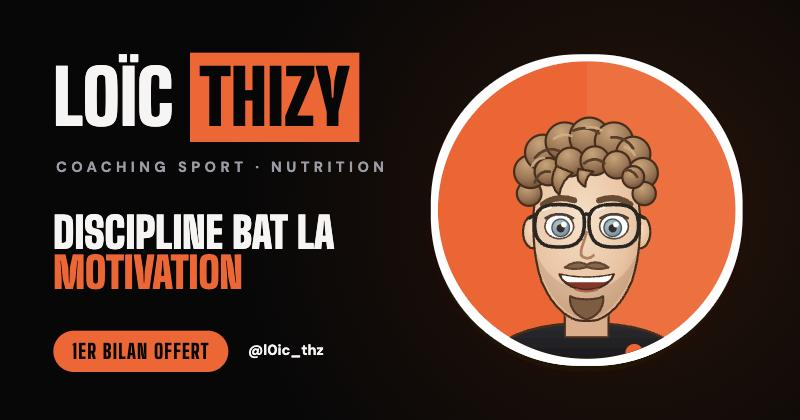
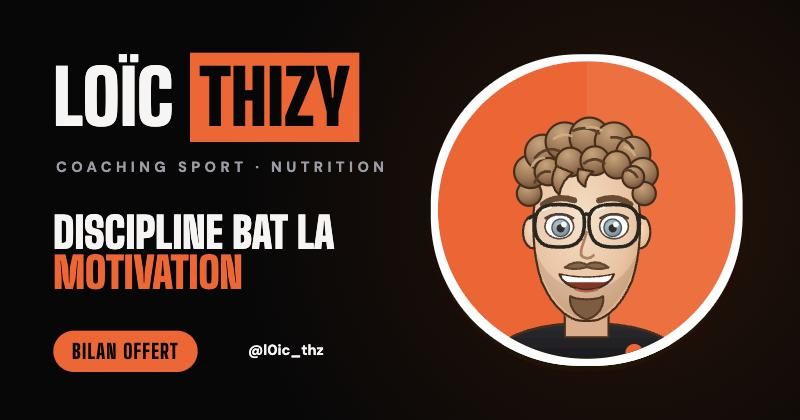
Bilan offert, option Bilan corporel, retrait Progresser dans mon sport

Changed region(s): [[0.0625, 0.7738, 0.3125, 0.8976]]

diff --git a/index.html b/index.html
@@ -1,4 +1,4 @@
[2 lines of base64/hex data omitted]
 
 <meta name="claude:viewport-fit-sides" content="cover">
 <link rel="stylesheet" href="https://fonts.googleapis.com/css2?family=Big+Shoulders+Display:wght@700;800;900&family=DM+Sans:wght@400;500;700&display=swap">
@@ -346,7 +346,7 @@ footer{text-align:center;color:var(--mu);font-size:13px;padding-bottom:10px}
 <div class="grain"></div>
 
 <nav class="nav" aria-label="Navigation">
-  <div><b>Loïc Thizy</b><small>1er bilan offert</small></div>
+  <div><b>Loïc Thizy</b><small>Bilan offert</small></div>
   <a class="pill" href="https://wa.me/33622997002">Écris-moi</a>
 </nav>
 
@@ -356,7 +356,7 @@ footer{text-align:center;color:var(--mu);font-size:13px;padding-bottom:10px}
     <div class="clock rise d2" id="clock" role="img" aria-label="Heure actuelle"><span class="cap" id="cap">Chaque jour. Même heure.</span></div>
     <h1 class="rise d3" id="h1"><span class="fit">Discipline <span class="or">bat</span> la <span class="o">motivation</span></span></h1>
     <div class="row rise d4">
-      <div class="offer-row"><div class="offer">1er bilan offert</div><a class="rdvbtn" href="#rdv">Prendre RDV</a></div>
+      <div class="offer-row"><div class="offer">Bilan offert</div><a class="rdvbtn" href="#rdv">Prendre RDV</a></div>
       <p class="lead">La motivation s'éteint un lundi matin. La régularité, jamais. J'accompagne celles et ceux qui veulent se remettre en forme, perdre du poids ou progresser, avec un seul principe : <b class="or">un petit geste, tenu chaque jour</b>, jusqu'à l'objectif.</p>
       <a class="cta" href="https://wa.me/33622997002">Écris-moi, on démarre
         <svg viewBox="0 0 24 24" fill="none" stroke="currentColor" stroke-width="2.4" stroke-linecap="round" stroke-linejoin="round" aria-hidden="true"><path d="M5 12h14M13 6l6 6-6 6"/></svg></a>
@@ -437,7 +437,7 @@ footer{text-align:center;color:var(--mu);font-size:13px;padding-bottom:10px}
   </section>
 
   <section class="rdv" id="rdv" aria-label="Prendre rendez-vous">
-    <div class="eyebrow">Ton 1er bilan offert</div>
+    <div class="eyebrow">Ton bilan offert</div>
     <h2>Je prends mon <span class="or">RDV</span></h2>
     <p class="rdv-lead">45 minutes, en face à face. Choisis ton jour et ton créneau : je te confirme sur WhatsApp (avec le lieu) et tu l'ajoutes à ton agenda.</p>
     <div class="rdv-box">
@@ -469,10 +469,10 @@ footer{text-align:center;color:var(--mu);font-size:13px;padding-bottom:10px}
     <p>Envoie-moi un message avec ton objectif et ton rythme actuel. Je te réponds en privé et on voit ensemble par où démarrer.</p>
     <div class="goal"><div class="gl">Ton objectif ?</div>
       <div class="gchips" id="goals" role="group" aria-label="Ton objectif">
+        <button type="button" class="gchip" aria-pressed="false">Bilan corporel</button>
         <button type="button" class="gchip" aria-pressed="false">Perdre du poids</button>
         <button type="button" class="gchip" aria-pressed="false">Prendre du muscle</button>
         <button type="button" class="gchip" aria-pressed="false">Me remettre en forme</button>
-        <button type="button" class="gchip" aria-pressed="false">Progresser dans mon sport</button>
       </div>
       <div class="gnote" id="gnote">Choisis ton objectif : ton message WhatsApp sera prêt.</div>
     </div>
@@ -558,7 +558,7 @@ footer{text-align:center;color:var(--mu);font-size:13px;padding-bottom:10px}
   /* Objectif -> message WhatsApp prêt */
   var NUM='33622997002',goal='';
   var was=[].slice.call(document.querySelectorAll('a[href^="https://wa.me/'+NUM+'"]:not(#rdvWa)')).filter(function(a){return !/Écris-moi/i.test(a.textContent)});
-  function msg(){return goal?("Bonjour Loïc, mon objectif : "+goal+". J'aimerais profiter de mon 1er bilan offert."):"Bonjour Loïc, j'aimerais en savoir plus sur ton accompagnement et mon 1er bilan offert."}
+  function msg(){if(goal==='bilan corporel')return "Bonjour Loïc, j'aimerais faire un bilan corporel et profiter de mon bilan offert.";return goal?("Bonjour Loïc, mon objectif : "+goal+". J'aimerais profiter de mon bilan offert."):"Bonjour Loïc, j'aimerais en savoir plus sur ton accompagnement et mon bilan offert."}
   function setWa(){var u='https://wa.me/'+NUM+'?text='+encodeURIComponent(msg());was.forEach(function(a){a.href=u})}
   setWa();
   var gc=document.querySelectorAll('.gchip'),gn=document.getElementById('gnote');
@@ -642,7 +642,7 @@ footer{text-align:center;color:var(--mu);font-size:13px;padding-bottom:10px}
   var txt=JO[day.getDay()]+' '+day.getDate()+' '+MO[day.getMonth()]+' à '+slot.replace(':','h');
   sum.innerHTML='Ton bilan : <b>'+txt+'</b> · '+DUR+' min · '+fmt;
   var st=parisUTC(day.getFullYear(),day.getMonth(),day.getDate(),+slot.slice(0,2),+slot.slice(3)),en=new Date(+st+DUR*60000);
-  var title='1er bilan offert – Loïc Thizy',det='Bilan de '+DUR+' min en '+fmt+' avec Loïc Thizy. Contact WhatsApp : +33 6 22 99 70 02';
+  var title='Bilan offert – Loïc Thizy',det='Bilan de '+DUR+' min en '+fmt+' avec Loïc Thizy. Contact WhatsApp : +33 6 22 99 70 02';
   wa.href='https://wa.me/'+WA+'?text='+encodeURIComponent('Bonjour Loïc, je souhaiterais réserver mon bilan offert le '+txt+'. Ce créneau est-il toujours disponible ?');
   gA.href='https://calendar.google.com/calendar/render?action=TEMPLATE&text='+encodeURIComponent(title)+'&dates='+z(st)+'/'+z(en)+'&details='+encodeURIComponent(det)+'&ctz=Europe/Paris';
   var ics=['BEGIN:VCALENDAR','VERSION:2.0','PRODID:-//Loic Thizy//Bilan//FR','CALSCALE:GREGORIAN','METHOD:PUBLISH','BEGIN:VEVENT','UID:'+z(st)+'-bilan@l0ic02.github.io','DTSTAMP:'+z(new Date()),'DTSTART:'+z(st),'DTEND:'+z(en),'SUMMARY:'+title,'DESCRIPTION:'+det.replace(/,/g,'\\,'),'BEGIN:VALARM','TRIGGER:-PT1H','ACTION:DISPLAY','DESCRIPTION:Bilan avec Loïc dans 1 h','END:VALARM','END:VEVENT','END:VCALENDAR'].join('\r\n');
@@ -655,13 +655,13 @@ footer{text-align:center;color:var(--mu);font-size:13px;padding-bottom:10px}
  renderCal();renderSlots();update();})(); (function(){var a=document.getElementById('rdvI');if(!a)return;a.addEventListener('click',function(e){if(a.classList.contains('off'))return;e.preventDefault();var h=a.getAttribute('href');var ics=decodeURIComponent(h.slice(h.indexOf(',')+1));var u=URL.createObjectURL(new Blob([ics],{type:'text/calendar;charset=utf-8'}));var ios=/iP(hone|ad|od)/.test(navigator.userAgent)||(navigator.platform==='MacIntel'&&navigator.maxTouchPoints>1);if(ios){location.href=u}else{var t=document.createElement('a');t.href=u;t.download='bilan-loic-thizy.ics';document.body.appendChild(t);t.click();t.remove()}setTimeout(function(){URL.revokeObjectURL(u)},60000)})})();
 /* Écris-moi : pop-up objectif avant WhatsApp */
 (function(){var NUM='33622997002';
- var goals=[].map.call(document.querySelectorAll('.gchip'),function(b){return b.textContent.trim()});if(!goals.length)goals=['Perdre du poids','Prendre du muscle','Me remettre en forme','Progresser dans mon sport'];
+ var goals=[].map.call(document.querySelectorAll('.gchip'),function(b){return b.textContent.trim()});if(!goals.length)goals=['Bilan corporel','Perdre du poids','Prendre du muscle','Me remettre en forme'];
  goals=goals.concat(['Juste en discuter']);
  var gp=document.createElement('div');gp.className='gp';gp.setAttribute('role','dialog');gp.setAttribute('aria-modal','true');gp.setAttribute('aria-label','Ton objectif');
- gp.innerHTML='<div class="gp-box"><button type="button" class="gp-x" aria-label="Fermer">✕</button><div class="eyebrow">1er bilan offert</div><h3>Ton <span class="or">objectif</span> ?</h3><div class="gp-chips">'+goals.map(function(g,i){return '<button type="button" aria-pressed="false"'+(i===goals.length-1?' style="grid-column:1/-1"':'')+'>'+g+'</button>'}).join('')+'</div><div class="gp-msg" id="gpMsg"></div><a class="cta" id="gpGo" href="#" target="_blank" rel="noopener">Envoyer sur WhatsApp <svg viewBox="0 0 24 24" fill="none" stroke="currentColor" stroke-width="2.4" stroke-linecap="round" stroke-linejoin="round" aria-hidden="true"><path d="M5 12h14M13 6l6 6-6 6"/></svg></a></div>';
+ gp.innerHTML='<div class="gp-box"><button type="button" class="gp-x" aria-label="Fermer">✕</button><div class="eyebrow">Bilan offert</div><h3>Ton <span class="or">objectif</span> ?</h3><div class="gp-chips">'+goals.map(function(g,i){return '<button type="button" aria-pressed="false"'+(i===goals.length-1?' style="grid-column:1/-1"':'')+'>'+g+'</button>'}).join('')+'</div><div class="gp-msg" id="gpMsg"></div><a class="cta" id="gpGo" href="#" target="_blank" rel="noopener">Envoyer sur WhatsApp <svg viewBox="0 0 24 24" fill="none" stroke="currentColor" stroke-width="2.4" stroke-linecap="round" stroke-linejoin="round" aria-hidden="true"><path d="M5 12h14M13 6l6 6-6 6"/></svg></a></div>';
  document.body.appendChild(gp);
  var sel='',chips=gp.querySelectorAll('.gp-chips button'),mEl=gp.querySelector('#gpMsg'),go=gp.querySelector('#gpGo');
- function msg(){return (sel&&sel!=='Juste en discuter')?'Bonjour Loïc, mon objectif : '+sel.toLowerCase()+". J'aimerais profiter de mon 1er bilan offert.":"Bonjour Loïc, j'aimerais en savoir plus sur ton accompagnement et mon 1er bilan offert."}
+ function msg(){if(sel==='Bilan corporel')return "Bonjour Loïc, j'aimerais faire un bilan corporel et profiter de mon bilan offert.";return (sel&&sel!=='Juste en discuter')?'Bonjour Loïc, mon objectif : '+sel.toLowerCase()+". J'aimerais profiter de mon bilan offert.":"Bonjour Loïc, j'aimerais en savoir plus sur ton accompagnement et mon bilan offert."}
  function upd(){[].forEach.call(chips,function(c){c.setAttribute('aria-pressed',c.textContent===sel?'true':'false')});mEl.innerHTML='Ton message : <b>« '+msg()+' »</b>';go.href='https://wa.me/'+NUM+'?text='+encodeURIComponent(msg())}
  [].forEach.call(chips,function(c){c.addEventListener('click',function(){sel=(sel===c.textContent)?'':c.textContent;upd()})});
  function open(){var pre=document.querySelector('.gchip[aria-pressed="true"]');if(pre)sel=pre.textContent.trim();upd();gp.classList.add('on')}
